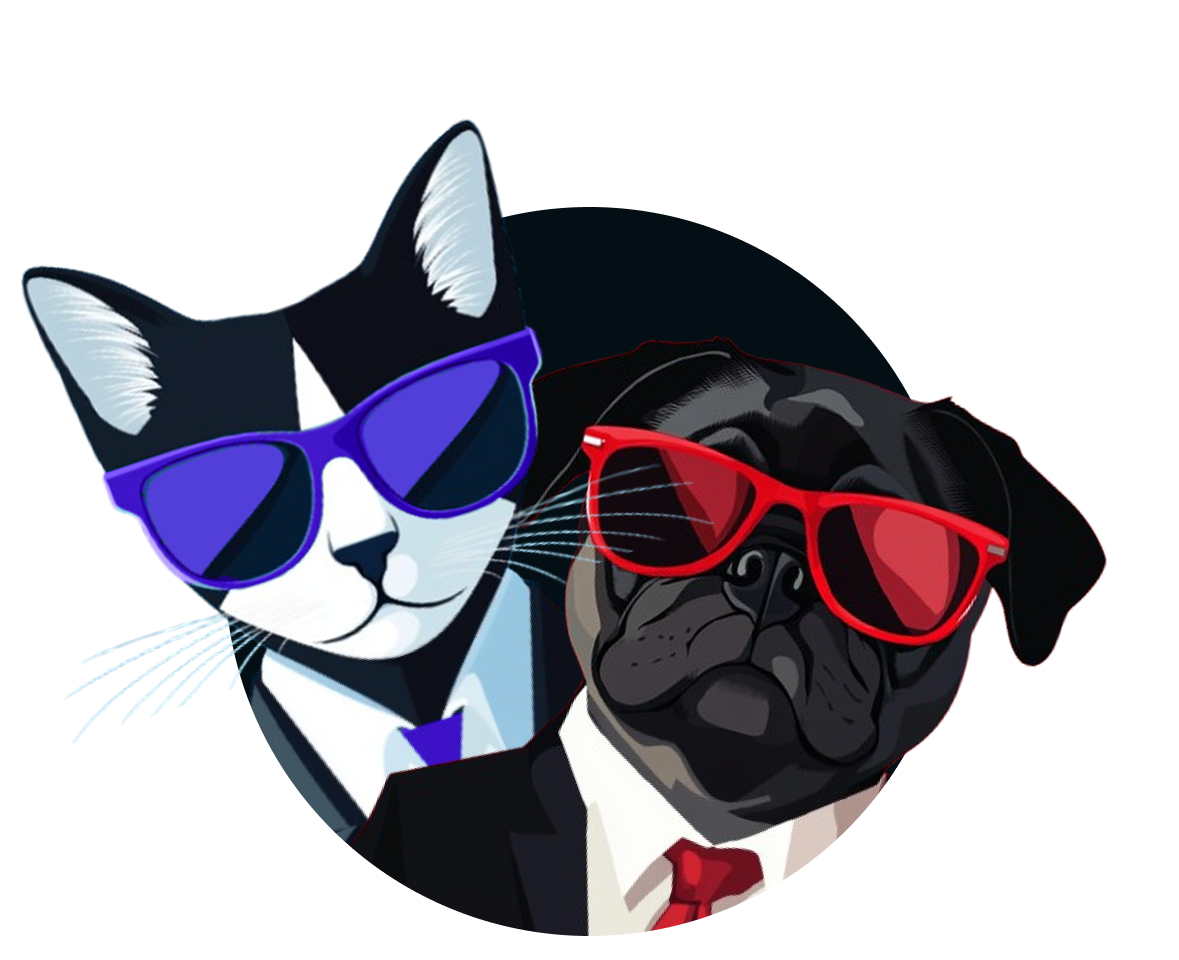
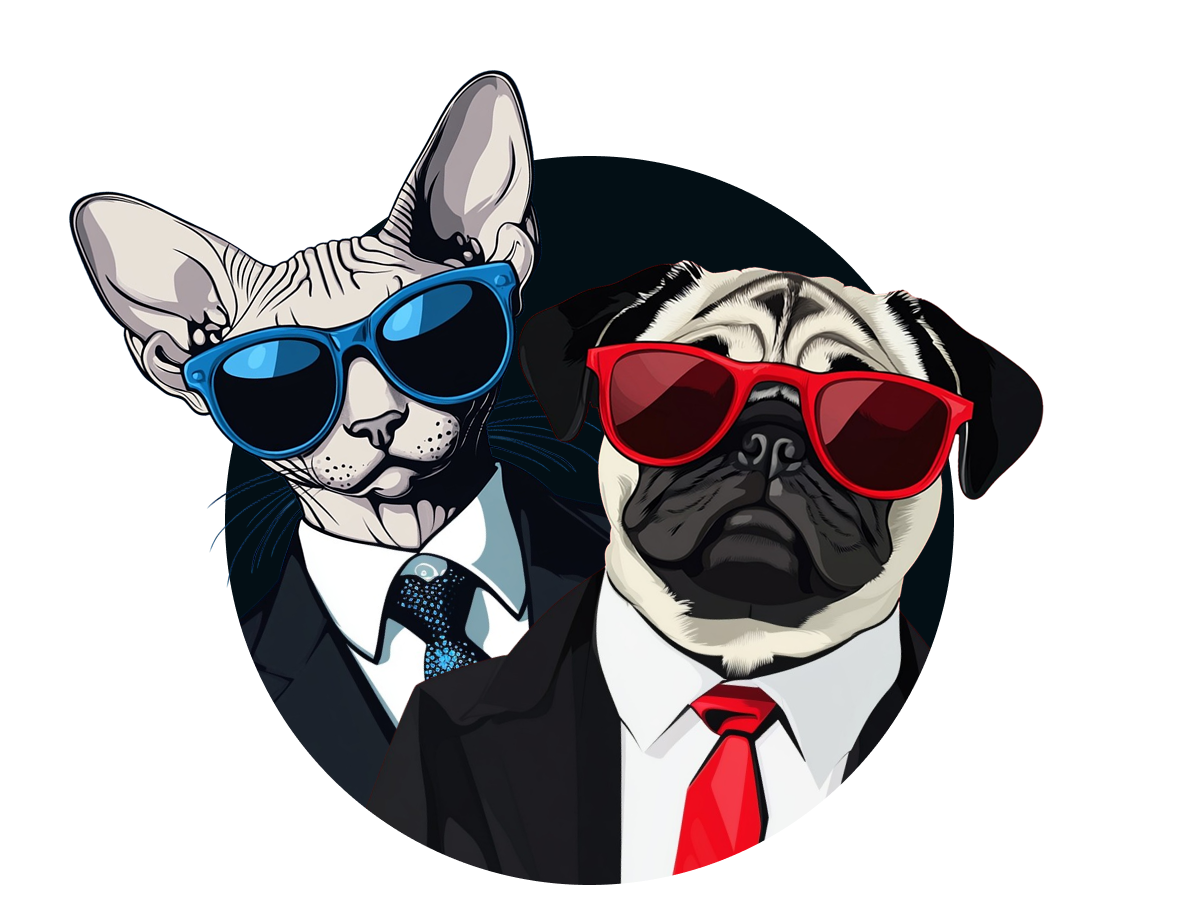
Replace all card images with new assets, simplify to single variant per type

diff --git a/public/index.html b/public/index.html
@@ -387,9 +387,9 @@
   .card-front { background-image: url(/img/card-default.png); background-color: #e8e0d0; }
 
   /* Captain color hints on front */
-  .card.hint-red     .card-front { background-image: url(/img/card-red1.png); }
-  .card.hint-blue    .card-front { background-image: url(/img/card-blue1.png); }
-  .card.hint-neutral .card-front { background-image: url(/img/card-neutral.png); }
+  .card.hint-red      .card-front { background-image: url(/img/card-red.png); }
+  .card.hint-blue     .card-front { background-image: url(/img/card-blue.png); }
+  .card.hint-neutral  .card-front { background-image: url(/img/card-neutral.png); }
   .card.hint-assassin .card-front { background-image: url(/img/card-death.png); }
 
   /* Captain view: dark overlay on revealed card image, text stays fully opaque */
@@ -417,11 +417,8 @@
   }
 
   /* Back: revealed card by type */
-  .card.revealed-red1     .card-back { background-image: url(/img/card-red1.png); }
-  .card.revealed-red2     .card-back { background-image: url(/img/card-red2.png); }
-  .card.revealed-red3     .card-back { background-image: url(/img/card-red3.png); }
-  .card.revealed-blue1    .card-back { background-image: url(/img/card-blue1.png); }
-  .card.revealed-blue2    .card-back { background-image: url(/img/card-blue2.png); }
+  .card.revealed-red      .card-back { background-image: url(/img/card-red.png); }
+  .card.revealed-blue     .card-back { background-image: url(/img/card-blue.png); }
   .card.revealed-neutral  .card-back { background-image: url(/img/card-neutral.png); }
   .card.revealed-assassin .card-back { background-image: url(/img/card-death.png); }
 
@@ -953,12 +950,9 @@ function generateQR(url) {
 // ══════════════════════════════════════════════════════
 //  CARD IMAGE
 // ══════════════════════════════════════════════════════
-function revealedClass(type, fig) {
-  if (type === 'red') {
-    const v = (fig % 3) + 1;
-    return 'revealed-red' + v;
-  }
-  if (type === 'blue')     return 'revealed-blue' + ((fig % 2) + 1);
+function revealedClass(type) {
+  if (type === 'red')      return 'revealed-red';
+  if (type === 'blue')     return 'revealed-blue';
   if (type === 'neutral')  return 'revealed-neutral';
   if (type === 'assassin') return 'revealed-assassin';
   return '';
@@ -1041,7 +1035,7 @@ socket.on('state', data => {
 
     // Assign revealed class
     if (nowRevealed) {
-      const rc = revealedClass(card.type, card.fig);
+      const rc = revealedClass(card.type);
       if (rc) el.classList.add(rc);
     }
 
